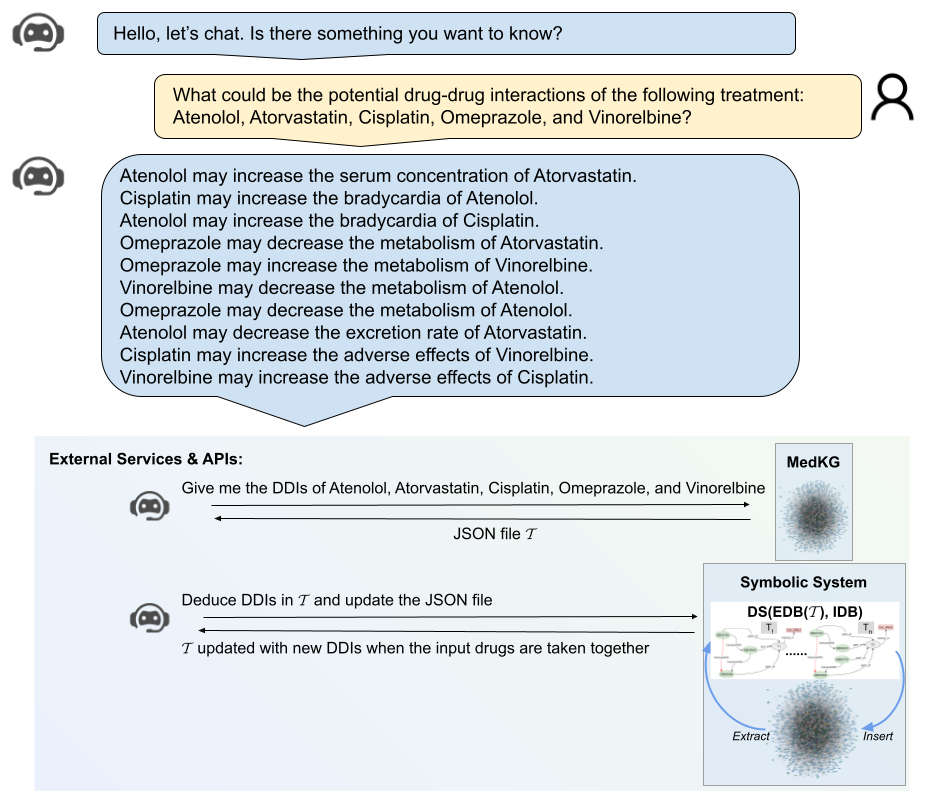
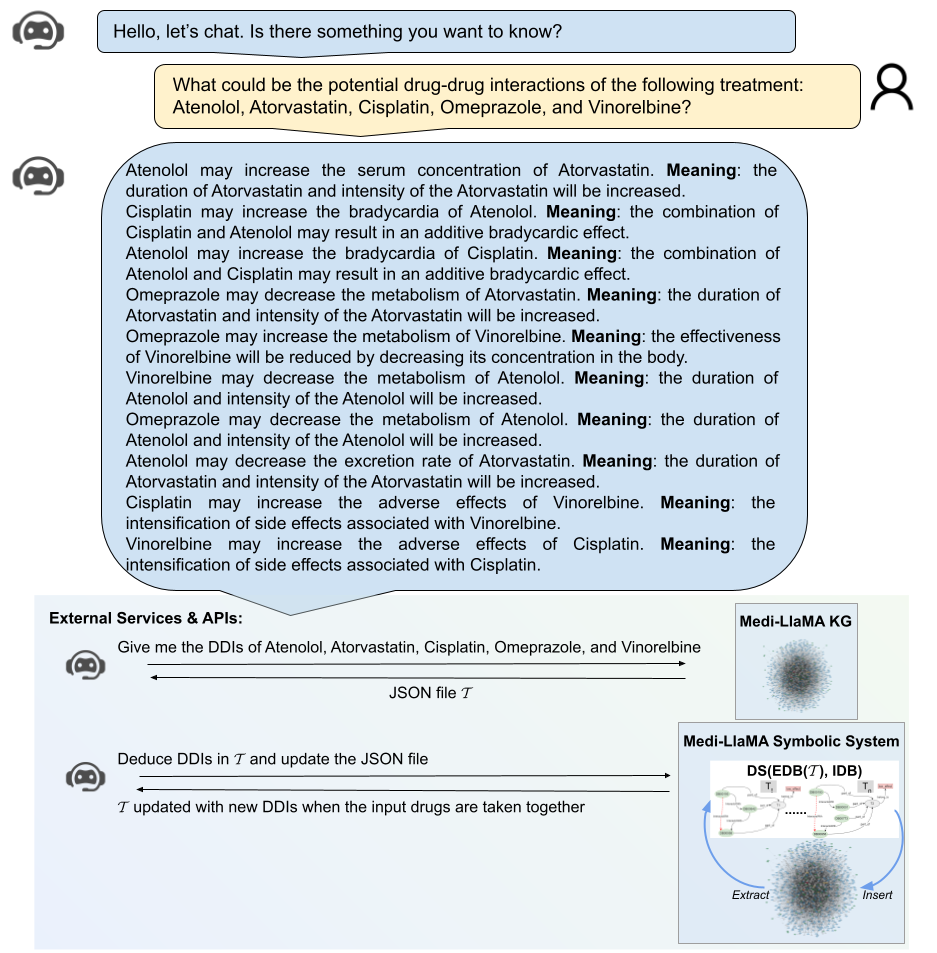
updated approach figure

diff --git a/README.md b/README.md
@@ -20,6 +20,6 @@ The accompanying figure illustrates that ChatDoctor successfully identifies four
 
 # Proposed Approach
 We propose a domain-agnostic approach that can empower the predictive capacity of sub-symbolic systems with a deductive database system.
-The approach retrieves the DDIs in the input treatment from the Medical Knowledge Graph (MedKG). Next, the Deductive System (DS) is called, where the DDIs extracted from the KG are part of the Extensional Database (EDB). The Intensional Database (IDB) of the DS comprises a set of rules to deduce new DDIs in treatments. A DDI is deduced when a set of drugs are taken together and is represented as a relation in the minimal model of the deductive database DS.
+The approach retrieves the DDIs in the input treatment from the Medi-LlaMA Knowledge Graph (Medi-LlaMA KG). Next, the Deductive System (DS) is called, where the DDIs extracted from the Medi-LlaMA KG are part of the Extensional Database (EDB). The Intensional Database (IDB) of the DS comprises a set of rules to deduce new DDIs in treatments. A DDI is deduced when a set of drugs are taken together and is represented as a relation in the minimal model of the deductive database DS.
 ![Proposed Approach](demo/mochup_DDIs.png)
  
